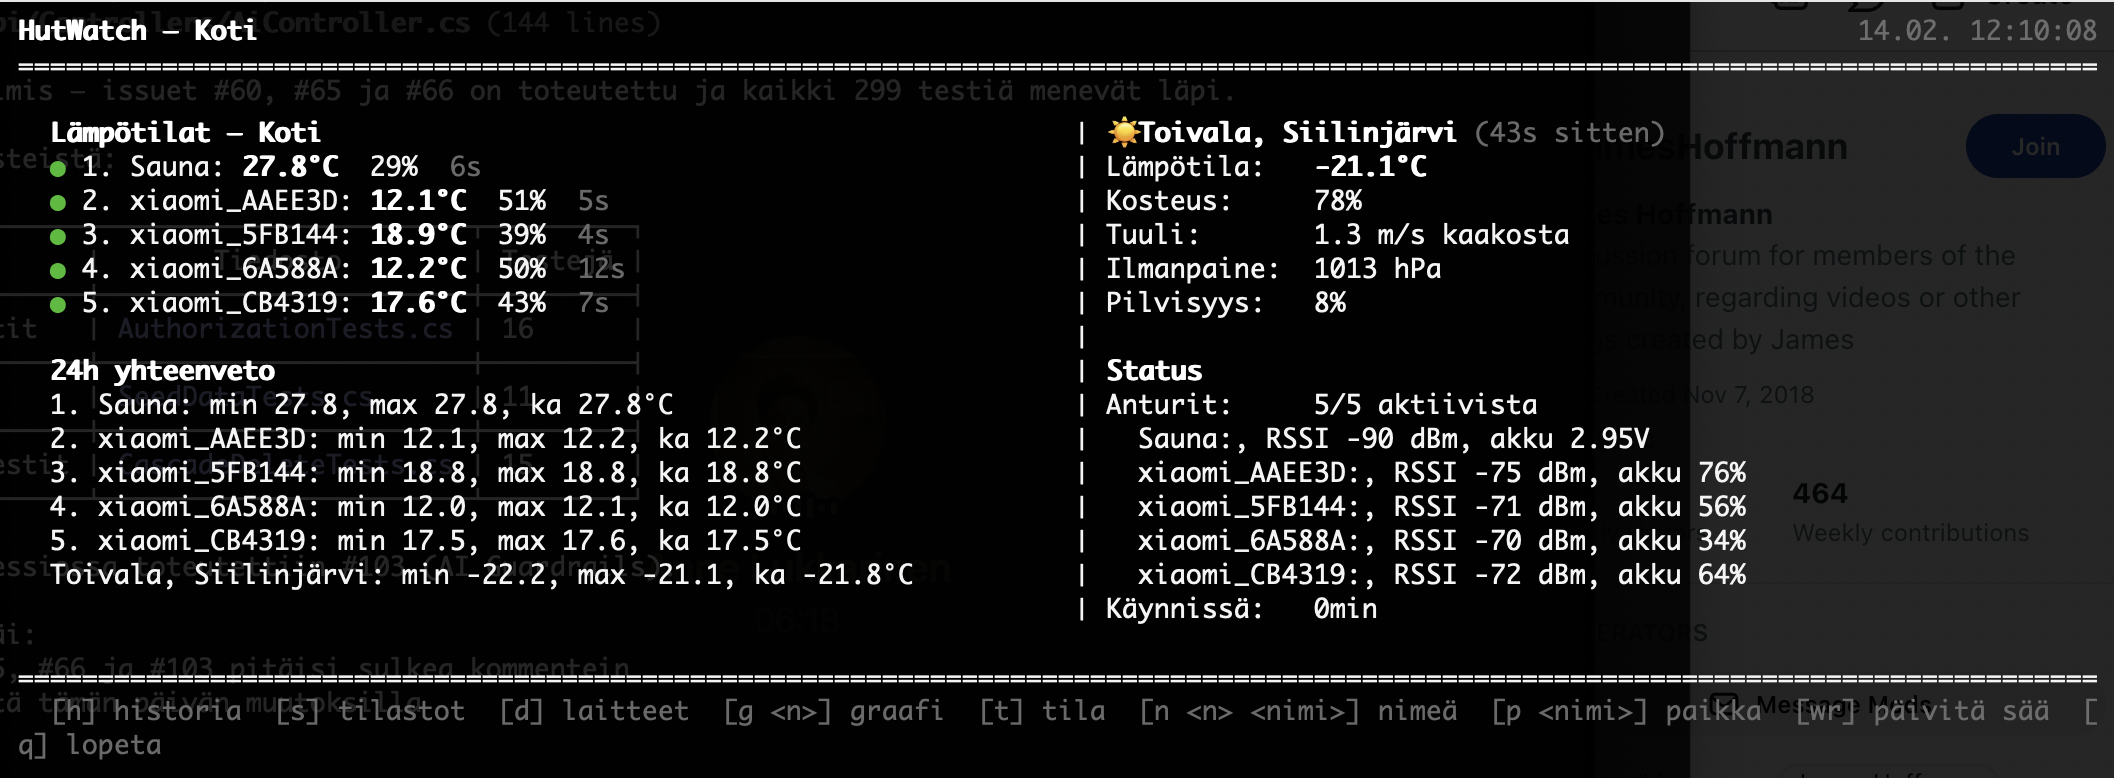
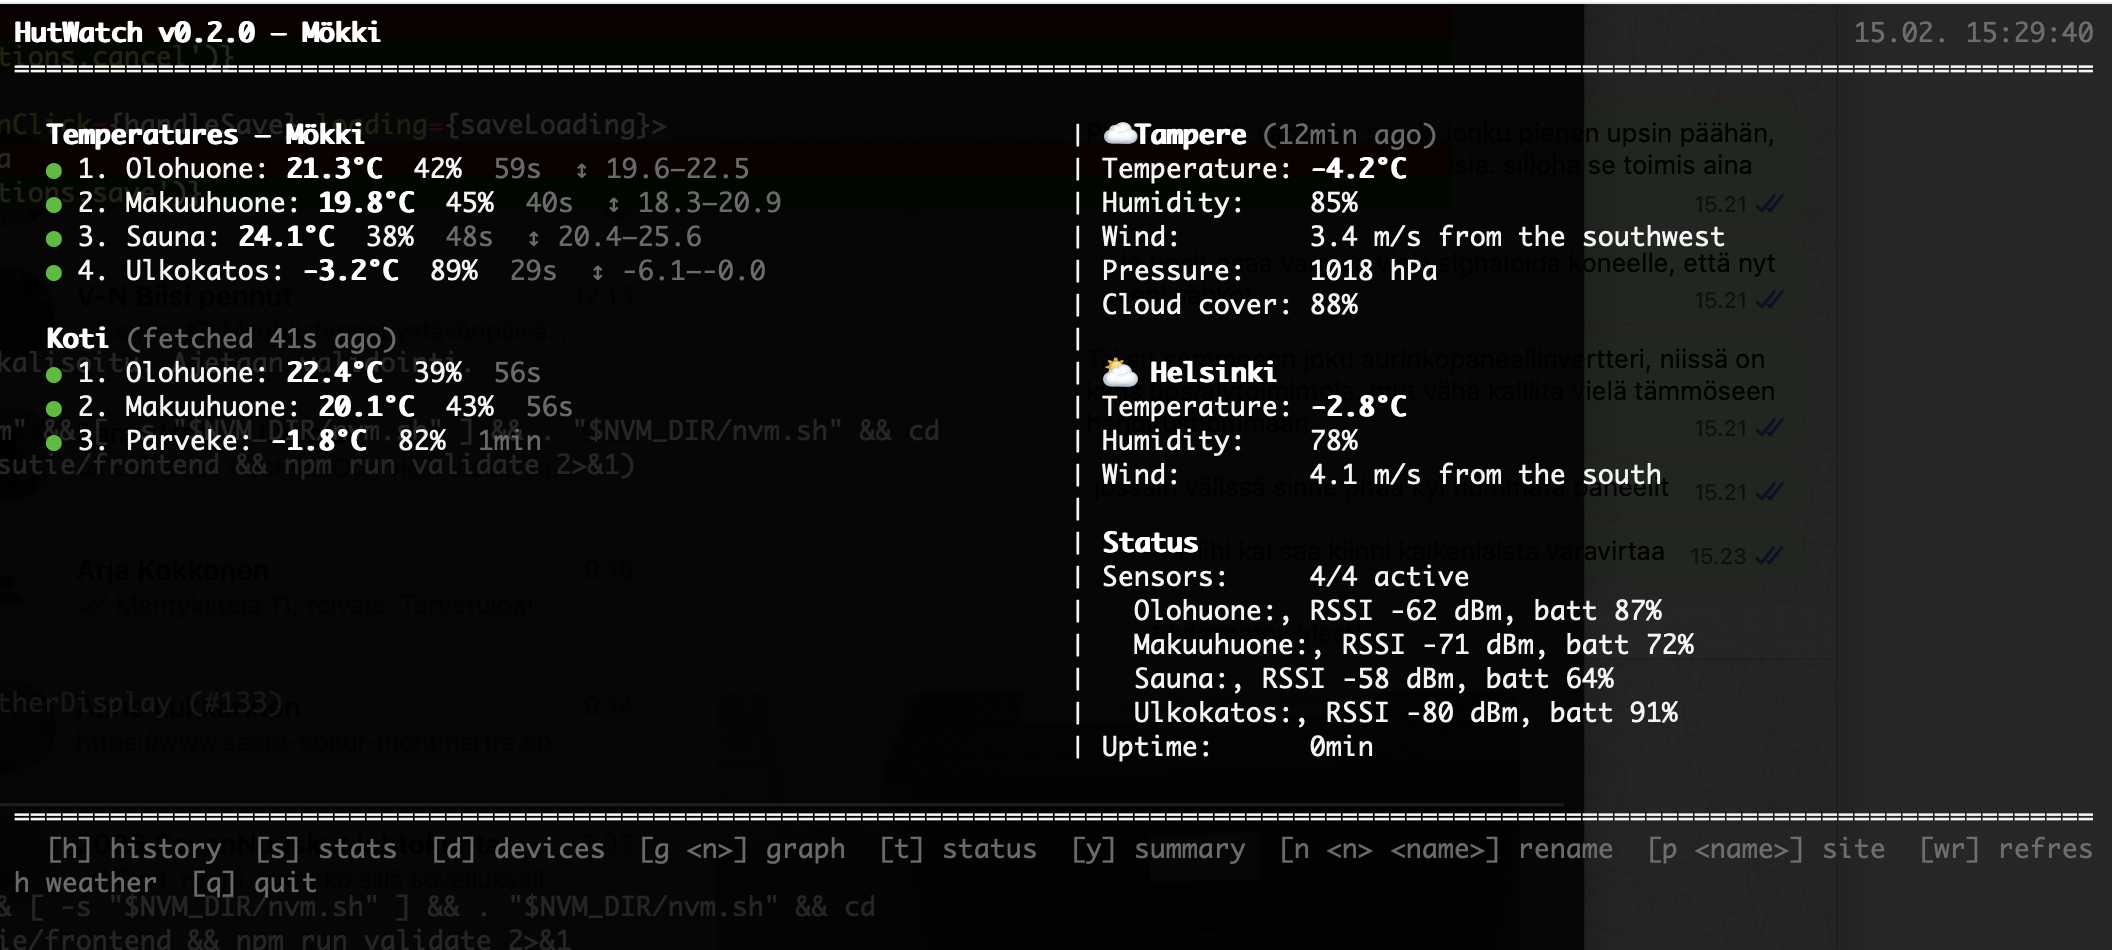
Update screenshot to demo data and document --demo flag
Replace TUI screenshot with demo mode output (no personal data).
Add demo mode docs to README, LUEMINUT, and CLAUDE.md.

Changed region(s): [[0.0, 0.0, 1.0, 1.0], [0.9062, 0.1234, 1.0, 0.2468]]

diff --git a/CLAUDE.md b/CLAUDE.md
@@ -32,6 +32,9 @@ python3 -m venv venv
 # TUI in English
 ./venv/bin/python -m hutwatch -c config.yaml --tui --lang en
 
+# Demo mode (no config/BLE/network needed)
+./venv/bin/python -m hutwatch --demo
+
 # Console output every 60s
 ./venv/bin/python -m hutwatch -c config.yaml --console 60
 
@@ -69,6 +72,7 @@ HutWatchApp (app.py) - Main coordinator, signals, component lifecycle
 3. UI commands query both SensorStore (recent) and Database (historical)
 
 **UI Mode Selection** (mutually exclusive):
+- `--demo` → TuiDashboard with fake data (no config/BLE/network needed, in-memory SQLite)
 - `--tui` → TuiDashboard (interactive, suppresses logging)
 - `--console [N]` → ConsoleReporter (keypress or timed interval)
 - Neither → TelegramBot if configured, else ConsoleReporter with 30s default

diff --git a/LUEMINUT.md b/LUEMINUT.md
@@ -150,6 +150,15 @@ Interaktiivinen ASCII-dashboard jossa:
 
 Sääpaikka ja paikan nimi tallentuvat tietokantaan — säilyvät uudelleenkäynnistysten yli.
 
+### Demotila
+
+Kokeile TUI:ta ilman laitteistoa, konfiguraatiota tai verkkoa — käyttää testitietoja muistissa:
+
+```bash
+./venv/bin/python -m hutwatch --demo          # Suomeksi
+./venv/bin/python -m hutwatch --demo --lang en # Englanniksi
+```
+
 ### Konsolituloste
 
 ```bash

diff --git a/README.md b/README.md
@@ -150,6 +150,15 @@ Interactive ASCII dashboard with the following commands:
 
 Weather location and site name are stored in the database and persist across restarts.
 
+### Demo Mode
+
+Try the TUI without any hardware, config, or network — uses fake sensor data in-memory:
+
+```bash
+./venv/bin/python -m hutwatch --demo          # Finnish
+./venv/bin/python -m hutwatch --demo --lang en # English
+```
+
 ### Console Output
 
 ```bash
